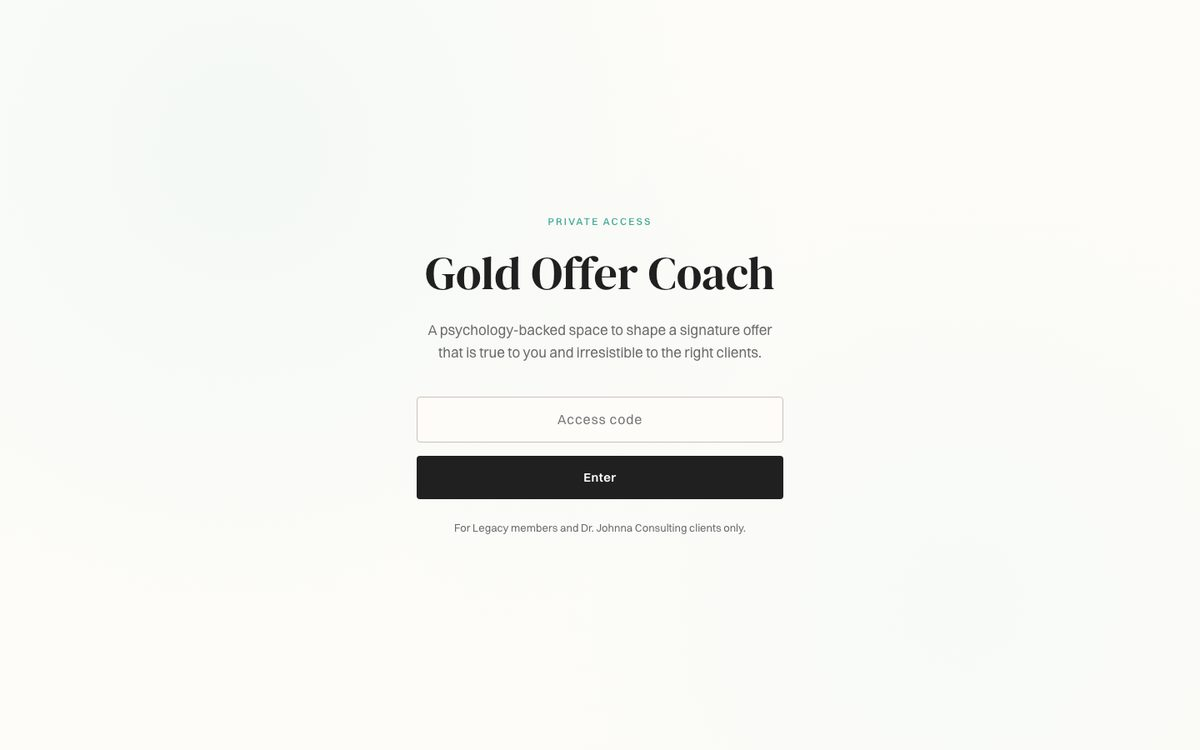
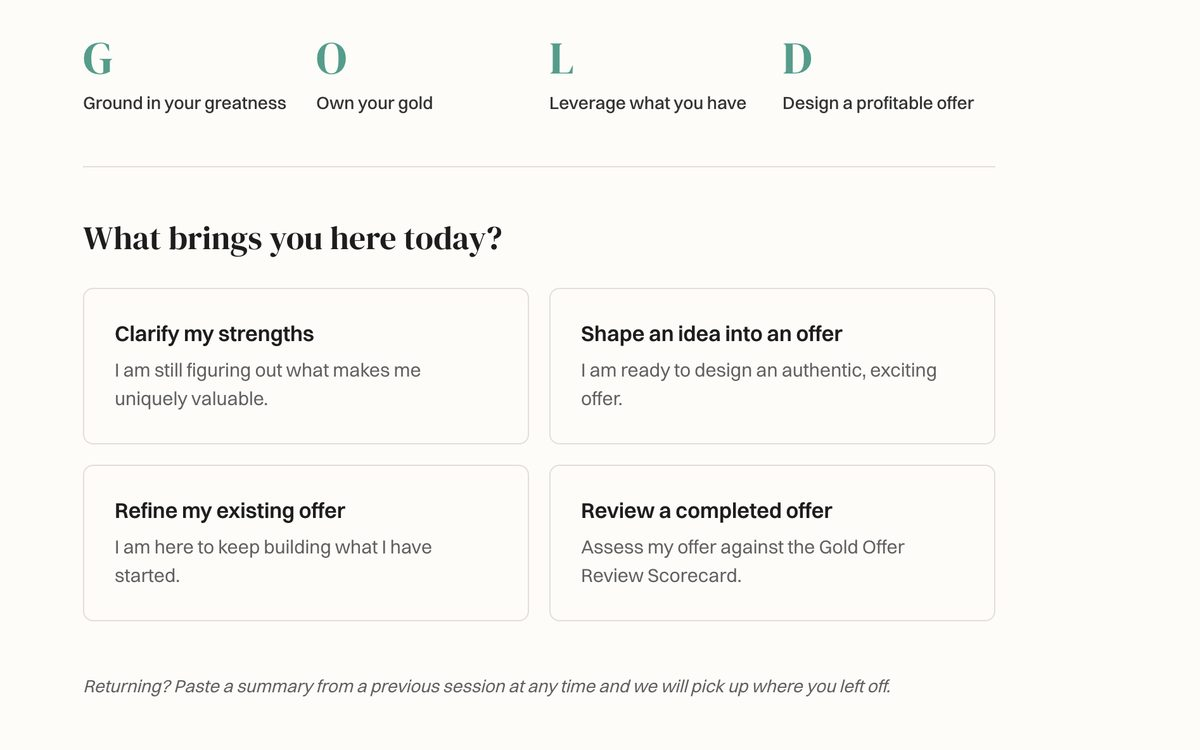
Cap screenshot width in full-width cards, show Gold Offer Coach interior
All screenshots now share one maximum size. The coach card uses
her interior capture of the G.O.L.D. framework screen.

diff --git a/builds.html b/builds.html
@@ -413,7 +413,7 @@
           <h3 class="exhibit-name">Gold Offer Coach</h3>
           <p class="exhibit-desc">An AI coaching bot trained on my Gold Offer framework, walking entrepreneurs through their signature offer.</p>
           <img src="assets/builds/gold-offer-coach.jpg"
-               alt="The Gold Offer Coach private access screen, asking for an access code."
+               alt="Inside the Gold Offer Coach. The G.O.L.D. framework steps and a question asking what brings you here today."
                loading="lazy"
                width="1200"
                height="750"

diff --git a/styles.css b/styles.css
@@ -1976,6 +1976,7 @@ section {
 
 .shot-img {
   width: 100%;
+  max-width: 34rem;
   height: auto;
   border: 1px solid var(--ink);
   border-radius: 2px;
